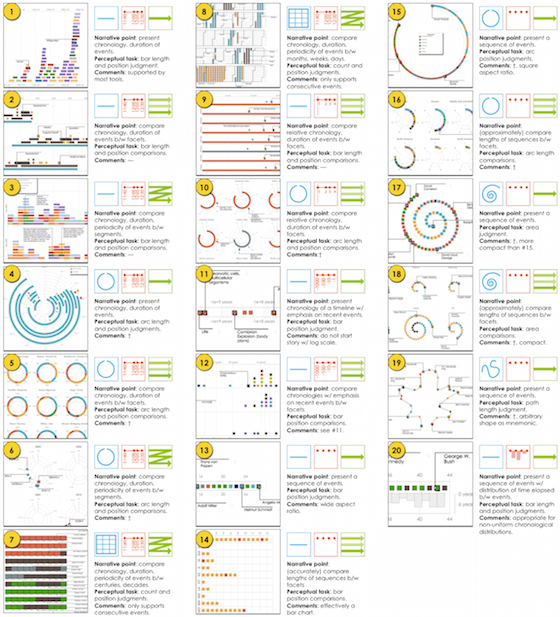
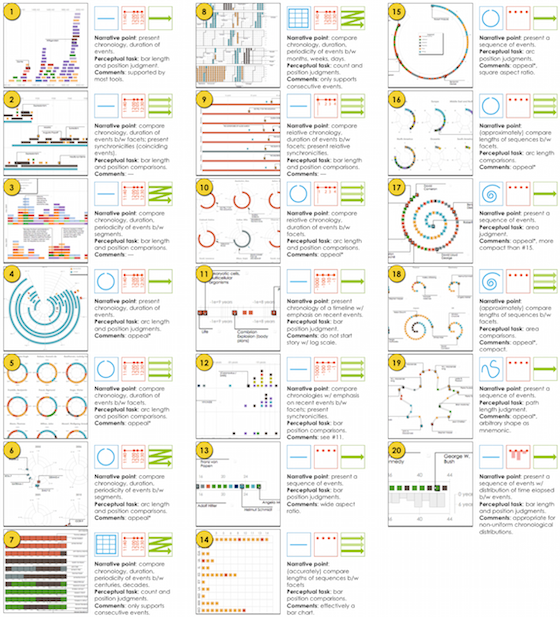
comments about synchronicities
comments about synchronicities

diff --git a/gallery/index.html b/gallery/index.html
@@ -297,7 +297,7 @@
 						</h4>
 
 						<a href="ChronLinFac.png" target="_blank"><img class="example" src="ChronLinFac.png" width="560" alt="Click to view in full resolution in a new tab" title="Click to view in full resolution in a new tab"></a>
-						<p><strong>Narrative Point</strong>: compare chronology, duration of events between facets.</p>
+						<p><strong>Narrative Point</strong>: compare chronology, duration of events between facets, present synchronicities (coinciding events).</p>
 						<p><strong>Perceptual Task</strong>: bar length and position comparisons.</p>
 						<p><strong>Comments</strong>: -- </p>
 						<p><strong>Data</strong>: <a href="https://www.flickr.com/photos/accurat/8961090259/" target="_blank">Visualising painters' lives (by Accurat)</a>, coloured by event category, faceted by painter.</p>
@@ -444,7 +444,7 @@
 						</h4>
 
 						<a href="RelLinFac.png" target="_blank"><img class="example" src="RelLinFac.png" width="560" alt="Click to view in full resolution in a new tab" title="Click to view in full resolution in a new tab"></a>
-						<p><strong>Narrative Point</strong>: compare relative chronology, duration of events between facets.</p>
+						<p><strong>Narrative Point</strong>: compare relative chronology, duration of events between facets, present relative synchronicities.</p>
 						<p><strong>Perceptual Task</strong>: bar length and position comparisons.</p>
 						<p><strong>Comments</strong>: -- </p>
 						<p><strong>Data</strong>: <a href="http://flickr.com/photos/accurat/11052331736/" target="_blank">From first published to masterpieces (by Accurat)</a>, coloured by event category, faceted by author.</p>
@@ -507,7 +507,7 @@
 						</h4>
 
 						<a href="LogLinFac.png" target="_blank"><img class="example" src="LogLinFac.png" width="560" alt="Click to view in full resolution in a new tab" title="Click to view in full resolution in a new tab"></a>
-						<p><strong>Narrative Point</strong>: compare chronologies with emphasis on recent events between facets.</p>
+						<p><strong>Narrative Point</strong>: compare chronologies with emphasis on recent events between facets, present synchronocities.</p>
 						<p><strong>Perceptual Task</strong>: bar position comparisons.</p>
 						<p><strong>Comments</strong>: do not start story with log scale. </p>
 						<p><strong>Data</strong>: <a href="https://en.wikipedia.org/wiki/List_of_epidemics" target="_blank">List of epidemics (Wikipedia)</a>, coloured by epidemic type, faceted by world region.</p>

diff --git a/stories/index.html b/stories/index.html
@@ -44,8 +44,8 @@
 				<p><a href="#typical">Typical life</a></p>
 				<p><a href="#hurricanes">Hurricanes</a></p>
 				<p><a href="#chancellors">German chancellors</a></p>
-				<p><a href="#singularity">Countdown to Singularity</a></p>
 				<p><a href="#deepwater">Deepwater oil spill</a></p>
+				<p><a href="#singularity">Countdown to Singularity</a></p>
 			</div>
 			<!--/left-column-->
 
@@ -146,7 +146,7 @@
 							<img class="dimension_icon_scale" src="../gallery/SCALE-Rel.png" width="40" alt="Relative" title="Relative">
 							<img class="dimension_icon_layout" src="../gallery/LAYOUT-Fac.png" width="40" alt="Faceted" title="Faceted">
 						</p>
-						<p><strong>Note</strong>: Alternatively, this "scene" could have been depicted using this Radial-Relative visualization, which has a more compact aspect ratio and will afford comparisons of arc length, requiring shorter eye movements and less scrolling than the Linear visualization.</p>
+						<p><strong>Note</strong>: Alternatively, this "scene" could have been depicted using this Radial-Relative visualization, which has a more compact aspect ratio and will afford comparisons of arc length, requiring shorter eye movements and less scrolling than the Linear visualization. Many of the other narrative points in this story refer to Chronological and Relative synchronicities in the painters' lives, and these points are best supported by Linear representations; as a consequence, a brief transition to a Radial representation to serve a single narrative point is not likely to be useful.</p>
 						<a href="painters.png" target="_blank"><img class="example" src="painters.png" width="560" alt="Click to view in full resolution in a new tab" title="Click to view in full resolution in a new tab"></a>
 						<p>
 							(3:07) <span class="gallery_index"><span class="gallery_index_invisible">0</span>2</span>
